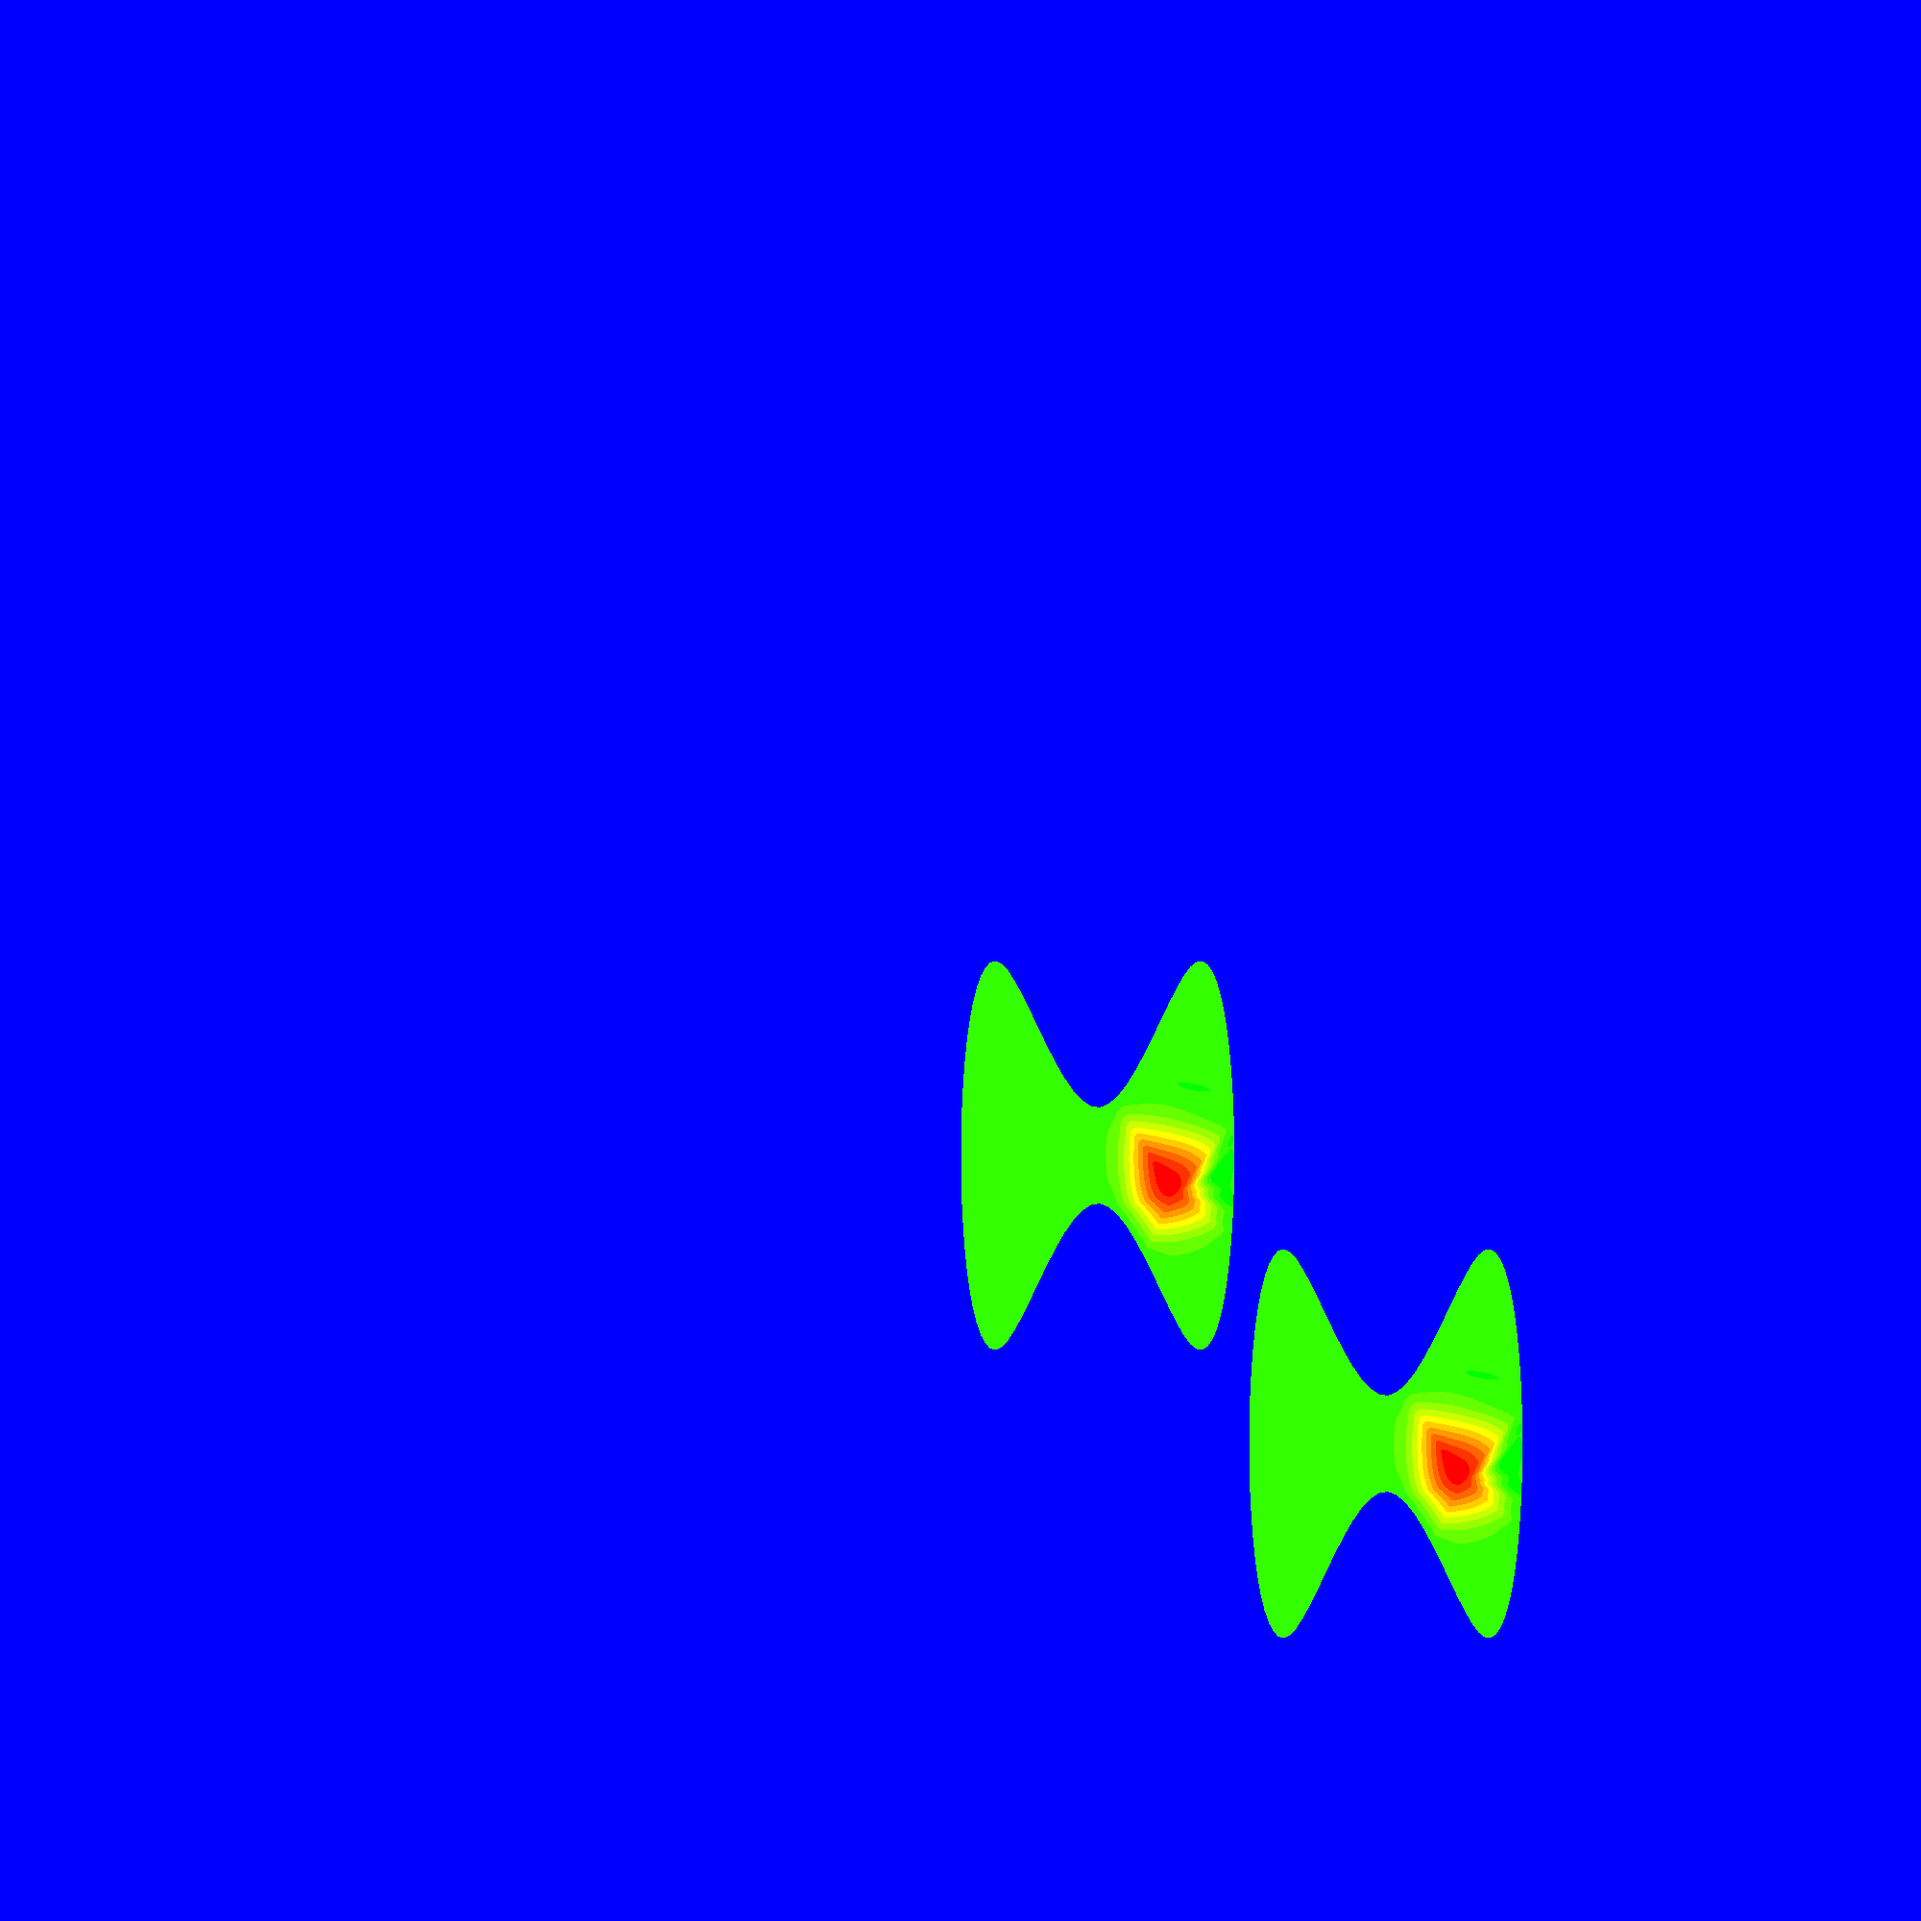
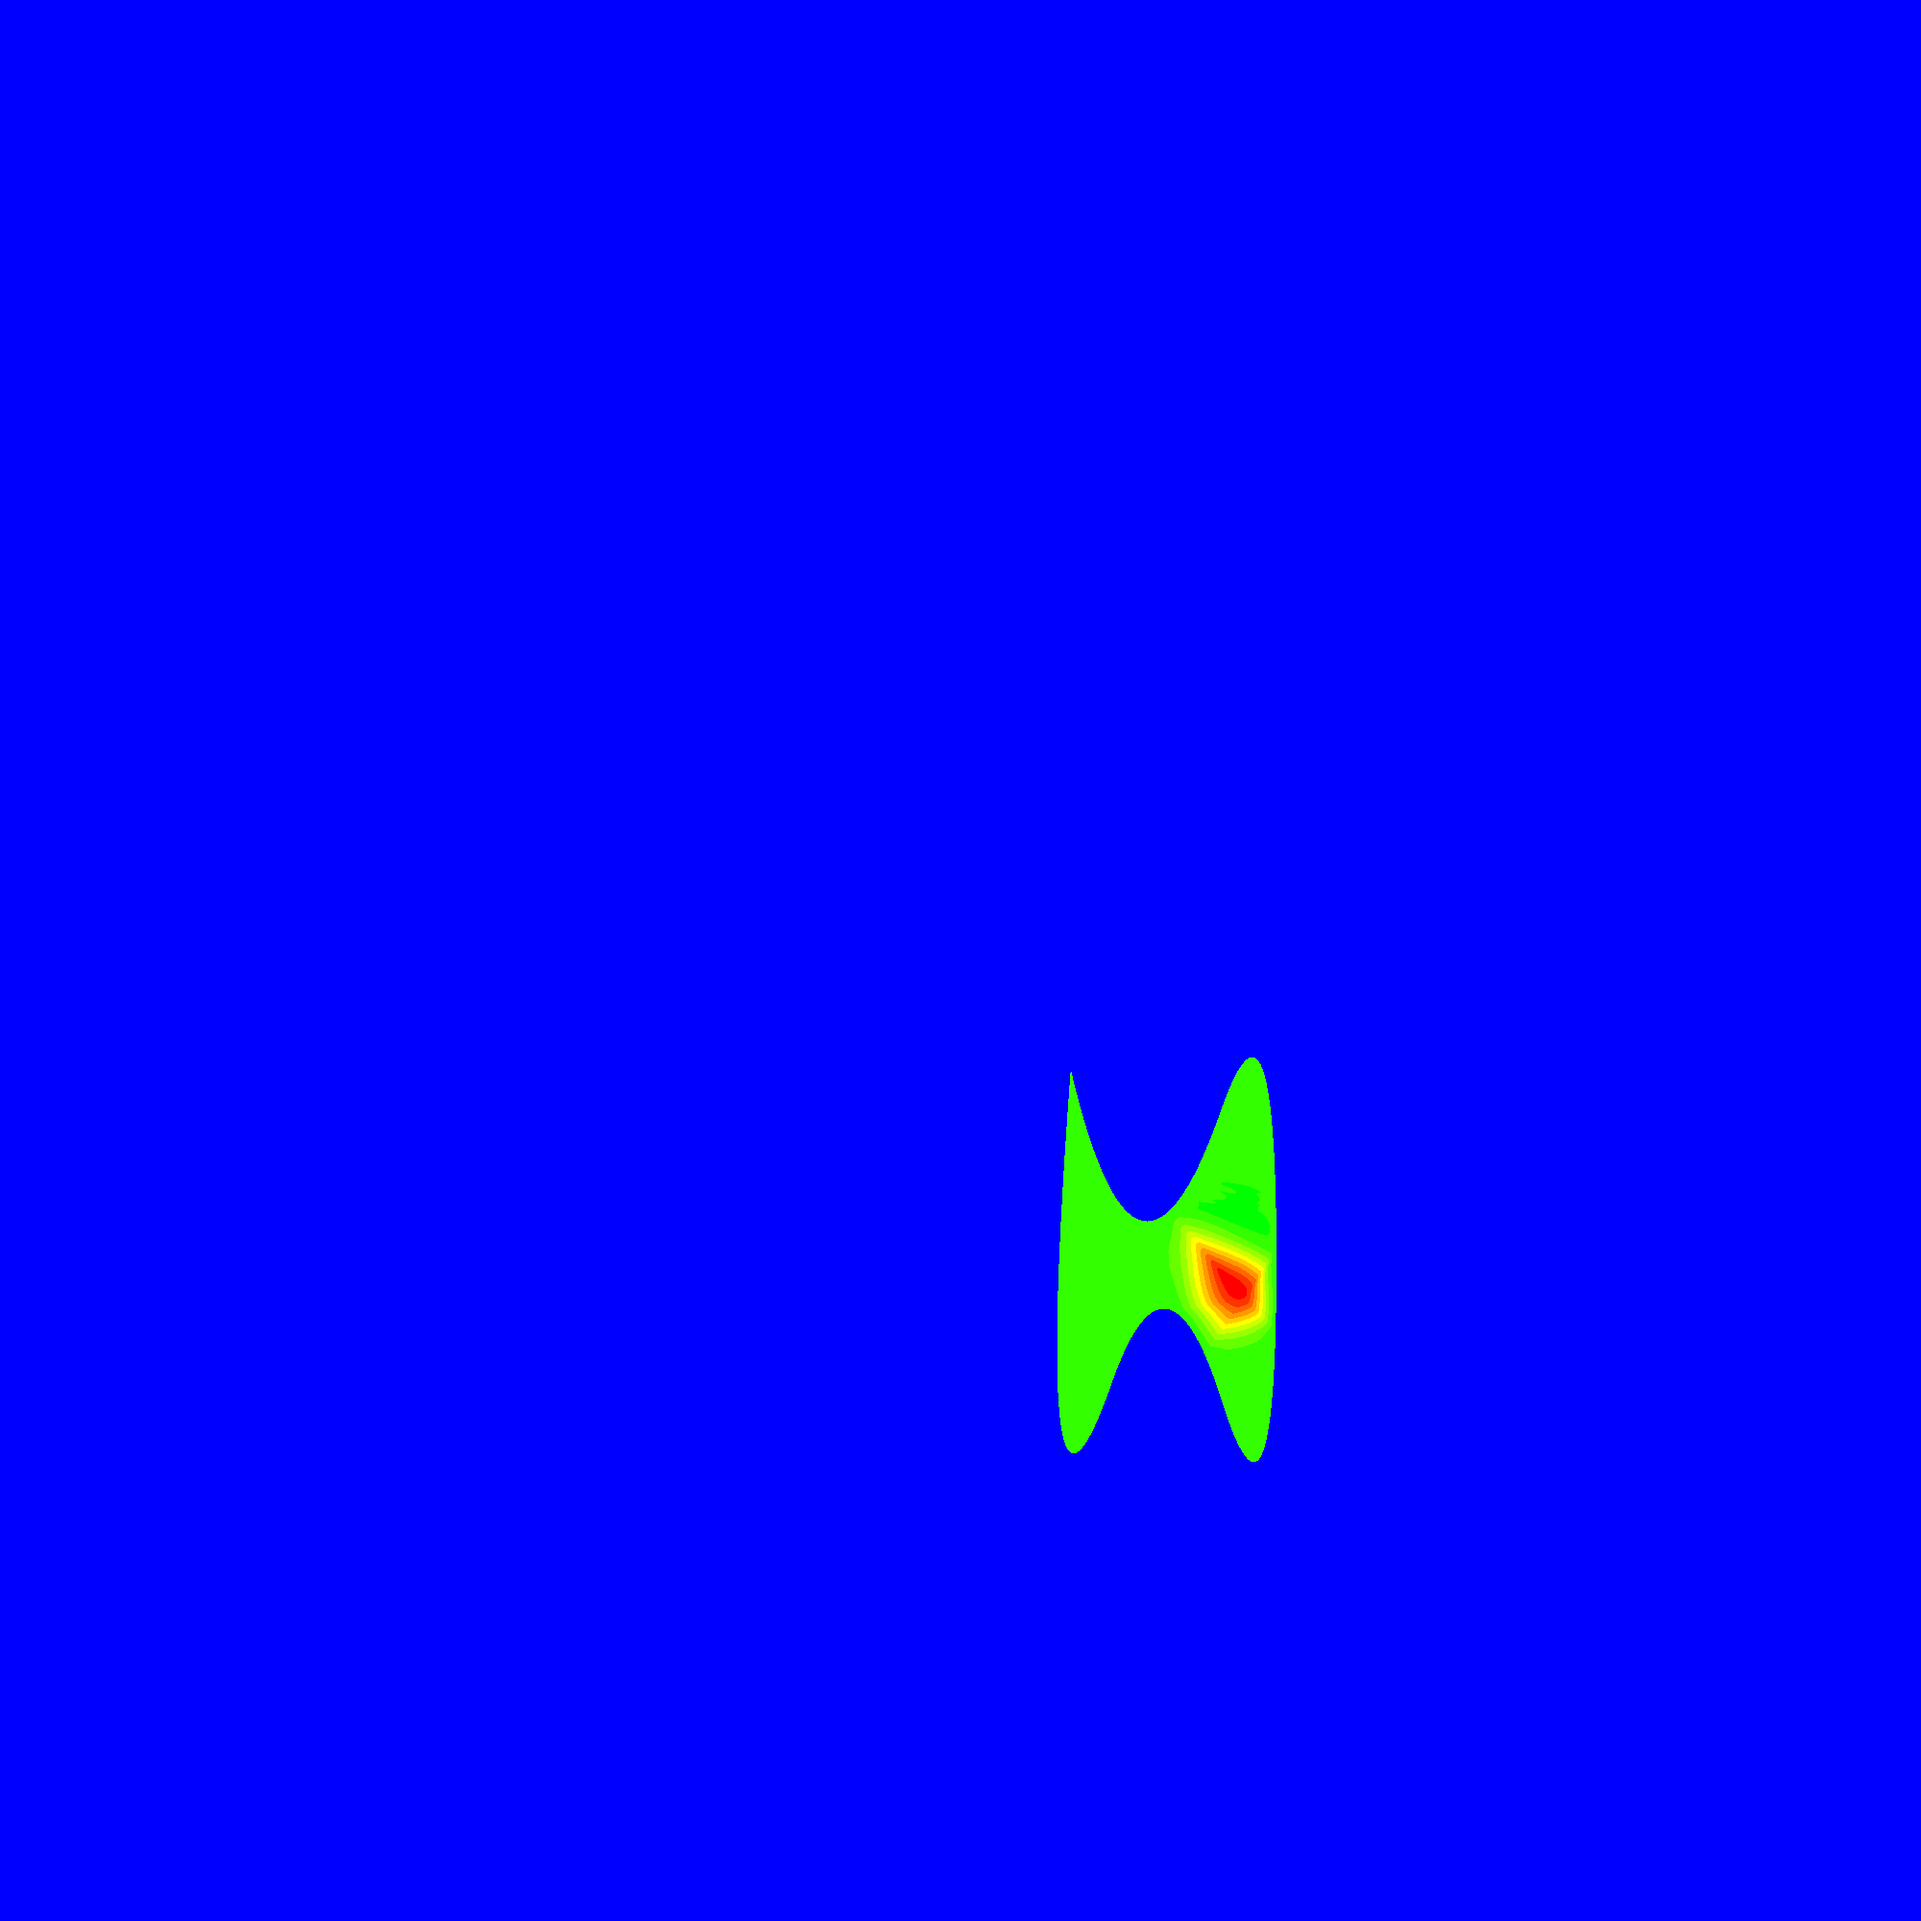
wszystko powinno być kompatybilne

Changed region(s): [[0.496, 0.496, 0.806, 0.868]]

diff --git a/python/World.py b/python/World.py
@@ -3,31 +3,38 @@ import numpy as np
 from Land import *
 
 class World:
-    def __init__(self,lands: list,size: list):
+    def __init__(self,lands: list[Land],size: list[int]):
         self.lands = lands
         self.size = size
         self.pixels = np.full((size[0],size[1],3),[0,0,255])
+    
+    @classmethod
+    def from_intworld(cls,intworld: InterpreterWorld):
+        size = point_to_list(intworld.size)
+        lands = [Land.from_intland(x) for x in intworld.lands]
+        return cls(lands,size)
         
-    def height_phases(self,n):
+    def height_phases(self,n: int) -> list[float]:
         maks=-1
         for land in self.lands:
-            m = np.max(land.hmap)
+            m = np.max(land.height_map)
             if m>maks: maks=m
         return [i/n*maks for i in range(n+1)]
     
-    def color_phases(self,n):
+    def color_phases(self,n: int) -> list[list[int]]:
         a = n//2
         b = n-a
         phases1 = [[255*i//a,255,0] for i in range(a)]
         phases2 = [[255,255-255*i//b,0] for i in range(b+1)]
         return phases1 + phases2
     
-    def give_color(self,land,n):
+    def give_color(self,land: Land,n: int):
         h = self.height_phases(n)
         c = self.color_phases(n)
         x_move = land.start[0]
         y_move = land.start[1]
-        for (row,col),value in np.ndenumerate(land.zi):
+        for (row,col),value in np.ndenumerate(land.height_map):
+            if value!=-np.inf:
                 for i,y in enumerate(h):
                     if y>=value:
                         self.pixels[row+y_move+self.size[0]//2][col+x_move+self.size[1]//2]=c[i]
@@ -43,21 +50,23 @@ class World:
         img_rgb.save("obraz_rgb.png")
         img_rgb.show()
 
-points3D = np.array([
-    [80, 40, 50],
-    [160, 20, 60]
-])
-points2D = np.array([
-    [-100,-200],
-    [0,-50],
-    [100,-200],
-    [100,200],
-    [0,50],
-    [-100,200],
-    [-100,-200]
-])
-h1 = Land(points3D,Perimeter(points2D),[0,0])
-h2 = Land(points3D,Perimeter(points2D),[300,300])
-w = World([h1,h2],[2000,2000])
-w.draw()
-# print(h1)
+# points3D = np.array([
+#     [80, 40, 50],
+#     [160, 20, 60]
+# ])
+# points2D = np.array([
+#     [-100,-200],
+#     [0,-50],
+#     [100,-200],
+#     [100,200],
+#     [0,50],
+#     [-100,200],
+#     [-100,-200]
+# ])
+# intpoints2D = [InterpreterPoint(point[0],point[1]) for point in points2D]
+# heights = [InterpreterHeight(InterpreterPoint(point[0],point[1]),point[2],0) for point in points3D]
+
+# intland1 = InterpreterLand(InterpreterPoint(100,100),intpoints2D,heights,"Nic","Nic")
+# intworld = InterpreterWorld([intland1],InterpreterPoint(2000,2000))
+# w = World.from_intworld(intworld)
+# w.draw()

diff --git a/python/Land.py b/python/Land.py
@@ -36,7 +36,7 @@ class Land:
         boundary_path = Path(boundary_points)
         grid_points = np.column_stack([xi.flatten(), yi.flatten()]).reshape(-1, 2)
         mask = boundary_path.contains_points(grid_points).reshape(xi.shape)
-        zi[~mask] = np.nan
+        zi[~mask] = -np.inf
         return zi
 
     def __str__(self):

diff --git a/python/InterpreterContainers.py b/python/InterpreterContainers.py
@@ -24,6 +24,6 @@ class InterpreterLand:
         self.heightFunc = heightFunc    
 
 class InterpreterWorld:
-    def __init__(self, lands : InterpreterLand, size: InterpreterPoint):
+    def __init__(self, lands : list[InterpreterLand], size: InterpreterPoint):
         self.lands = lands
         self.size = size
